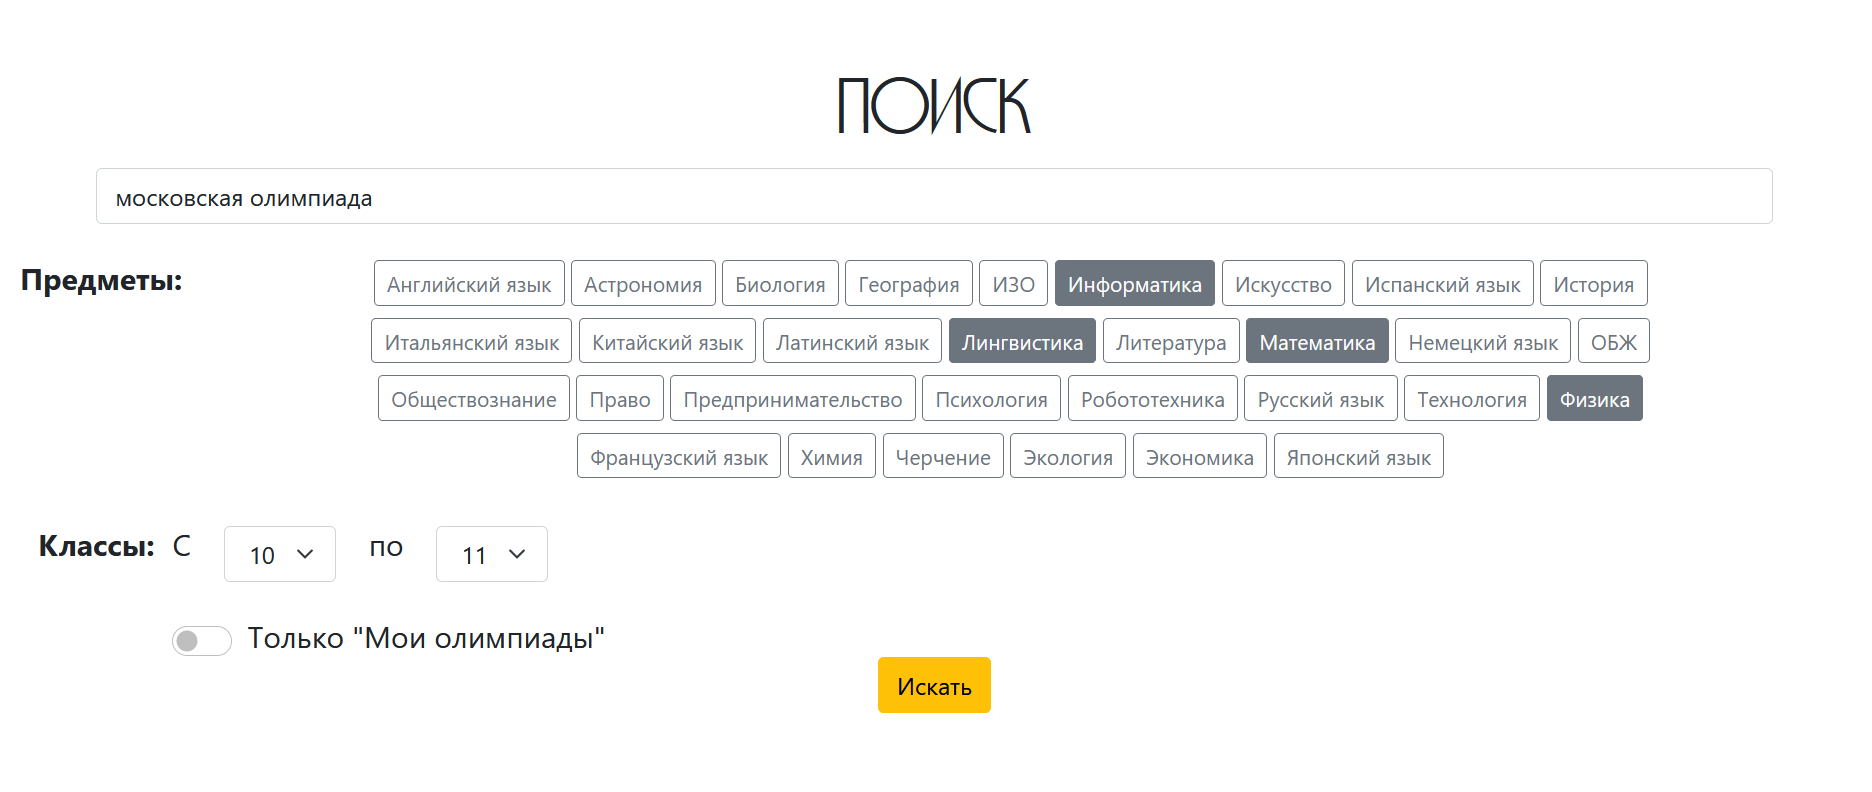
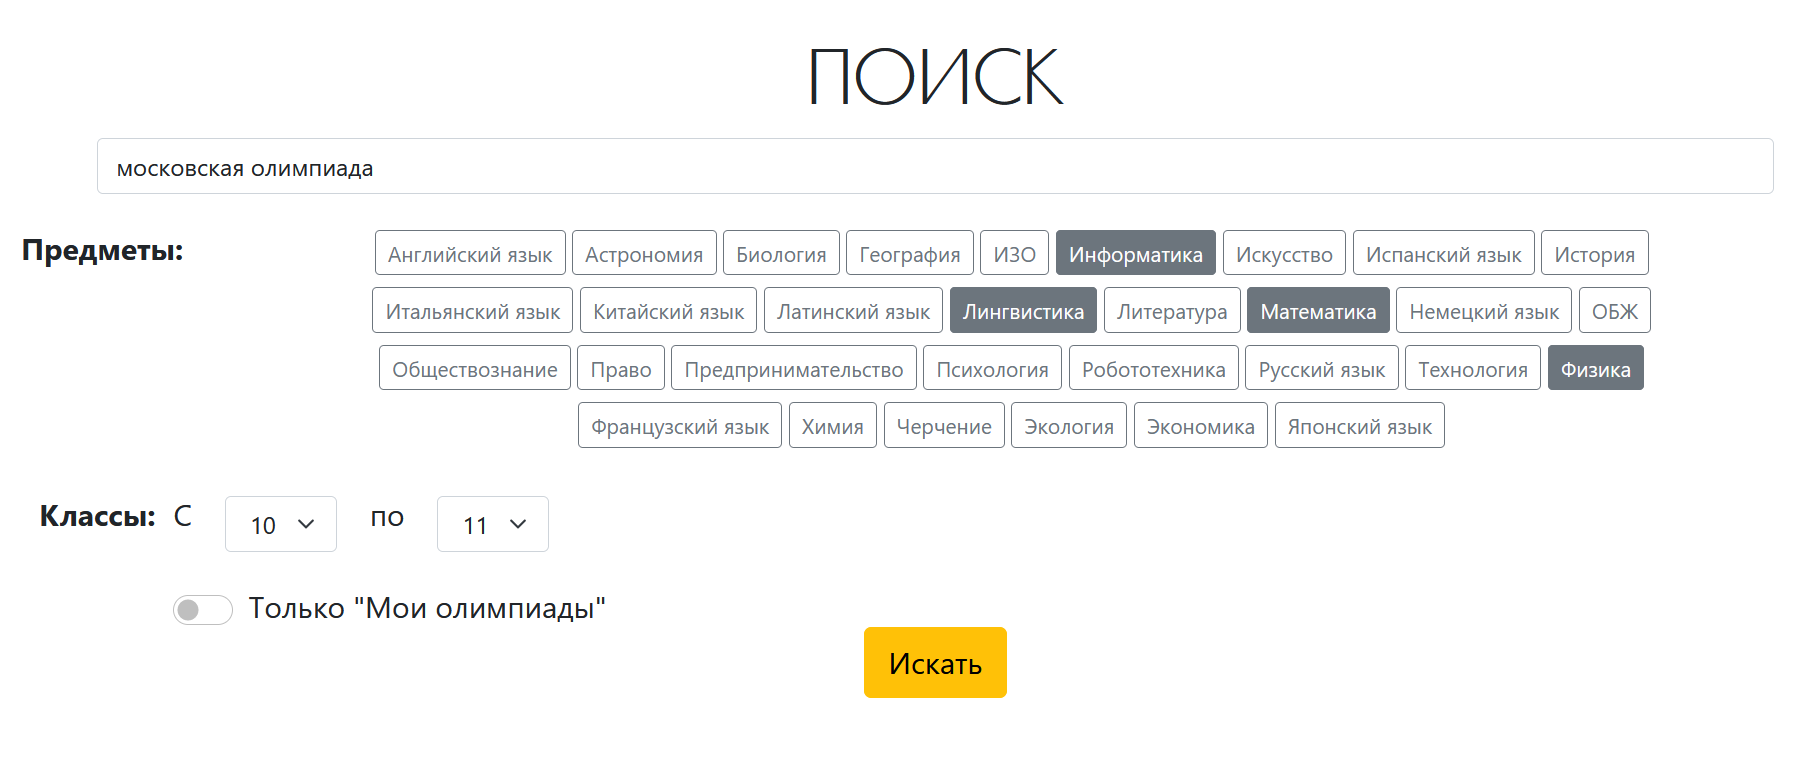
update frontend

diff --git a/app/templates/choose_olympiads.html b/app/templates/choose_olympiads.html
@@ -4,7 +4,7 @@
         {{ search_form.hidden_tag() }}
         <fieldset class="form-group">
             <div class="form-group px-4 py-5 text-center">
-                <h1 class="display-5 fw-bold" style="font-family: 'Lyrica Deco'">Поиск</h1>
+                <h1 class="display-5 fw-bold" style="font-family: 'Poiret One'">ПОИСК</h1>
                 <ul class="justify-content-center nav col-12 col-lg-auto my-2 my-md-0 text-small">
                     <li class="col-lg-11">
                         {{ search_form.olympiad_name_substr(class_="form-control
@@ -62,16 +62,16 @@
                 </ul>
                 <ul class="justify-content-center nav col-12 col-lg-auto my-2 my-md-0 text-small">
                     <li class="col-lg-11">
-                        {{ search_form.search_submit(class="btn btn-warning") }}
+                        {{ search_form.search_submit(class="btn btn-warning btn-lg") }}
                     </li>
                 </ul>
             </div>
         </fieldset>
         {{ choose_form.hidden_tag() }}
         <fieldset class="form-group px-4">
-            <h1 class="display-5 fw-bold" style="font-family: 'Lyrica Deco'">Результаты</h1>
+            <h1 class="display-5 fw-bold" style="font-family: 'Poiret One'">РЕЗУЛЬТАТЫ</h1>
             <div class="form-group text-center">
-                {{ choose_form.choose_submit(class="btn btn-outline-warning") }}
+                {{ choose_form.choose_submit(class="btn btn-outline-warning btn-lg") }}
             </div>
             <br>
             {% for choice in choose_form.choose_olympiads %}
@@ -86,7 +86,7 @@
             {% endfor %}
             <br>
             <div class="form-group text-center">
-                {{ choose_form.choose_submit(class="btn btn-outline-warning") }}
+                {{ choose_form.choose_submit(class="btn btn-outline-warning btn-lg") }}
             </div>
             <br>
         </fieldset>

diff --git a/app/templates/base.html b/app/templates/base.html
@@ -24,6 +24,10 @@
     <!-- Latest compiled JavaScript -->
     <script src="https://maxcdn.bootstrapcdn.com/bootstrap/4.0.0/js/bootstrap.min.js"></script>
 
+    <link rel="preconnect" href="https://fonts.googleapis.com">
+    <link rel="preconnect" href="https://fonts.gstatic.com" crossorigin>
+    <link href="https://fonts.googleapis.com/css2?family=Neucha&family=Poiret+One&display=swap" rel="stylesheet"> 
+
     <title>{{title}}</title>
 </head>
 <body>
@@ -32,7 +36,7 @@
           <div class="container">
             <div class="d-flex flex-wrap align-items-center justify-content-center justify-content-lg-start">
                 <a width=241.6 height=60.4 href="{{ url_for('main') }}" class="d-flex align-items-center my-2 my-lg-0 me-lg-auto text-white text-decoration-none">
-                  <h1 class="display-5 fw-bold text-warning" style="font-family: 'Lyrica Deco'">Олимпдейт</h1>
+                  <h1 class="display-5 fw-bold text-warning" style="font-family: 'Poiret One'">ОЛИМПДЕЙТ</h1>
                 </a>
 
               <ul class="nav col-12 col-lg-auto my-2 justify-content-center my-md-0 text-small">

diff --git a/app/templates/main.html b/app/templates/main.html
@@ -2,7 +2,7 @@
         
 
         <div class="bg-dark text-secondary px-4 py-5 text-center border-bottom ">
-          <h1 class="display-5 fw-bold text-white" style="font-family: 'Lyrica Deco'">Олимпиадный календарь</h1>
+          <h1 class="display-5 fw-bold text-white" style="font-family: 'Poiret One'">ОЛИМПИАДНЫЙ КАЛЕНДАРЬ</h1>
           <div class="col-lg-6 mx-auto">
             <p class="lead mb-4">Удобное и быстрое планирование олимпиадных мероприятий, наглядный календарь и возможность интеграции в Google-календарь.</p>
             <div class="d-grid gap-2 d-sm-flex justify-content-sm-center mb-5">
